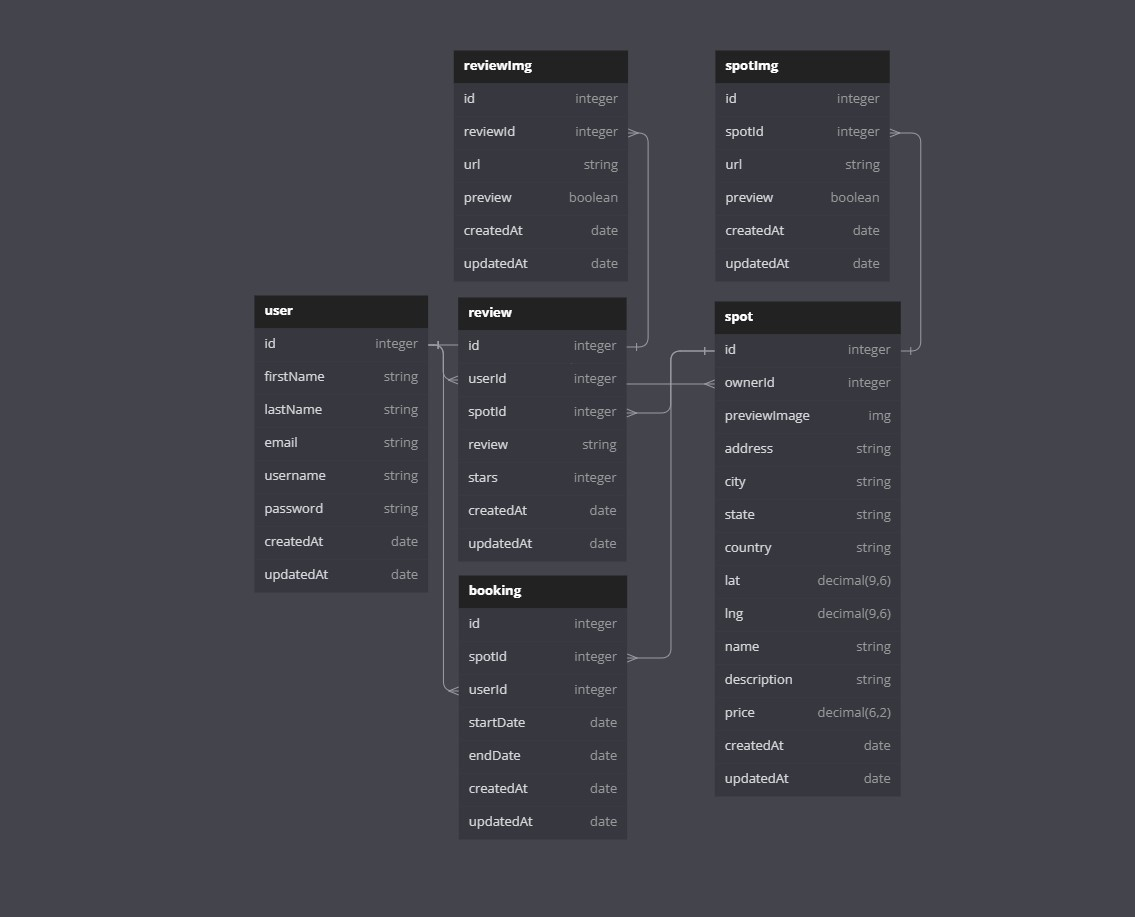
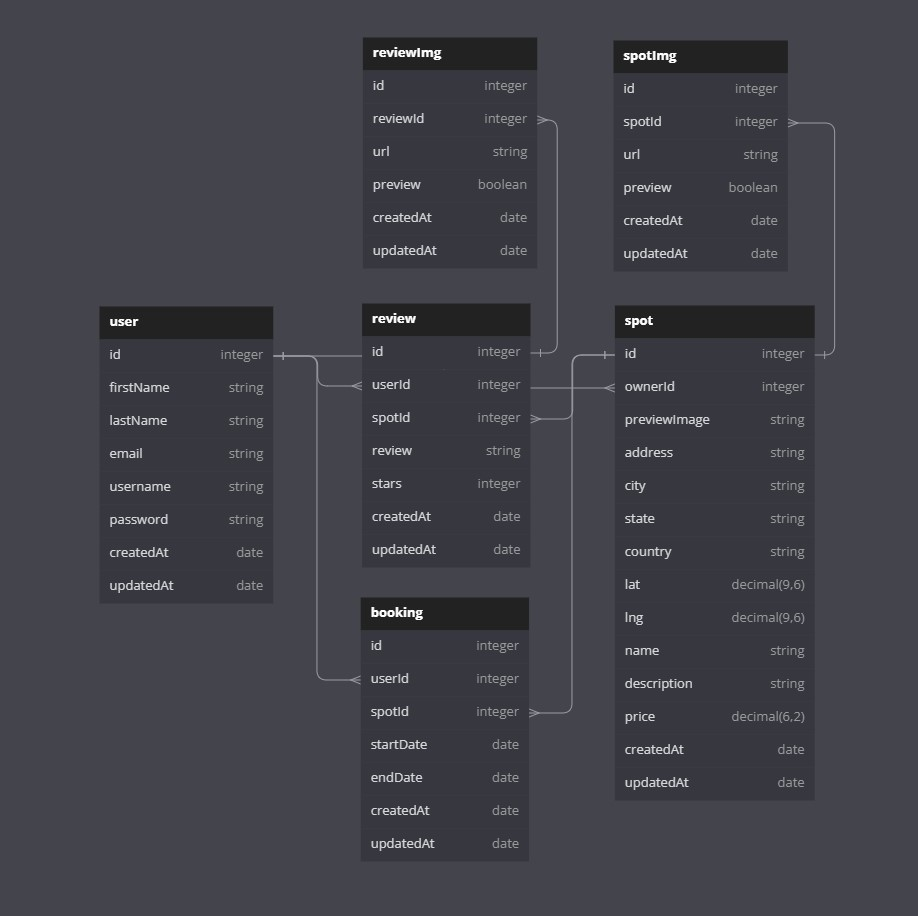
Updates to Schema-Diagram

diff --git a/zSchema/Schema-Info.md b/zSchema/Schema-Info.md
@@ -16,7 +16,7 @@ Table user {
 Table spot {
   id integer
   ownerId integer [ref: > user.id]
-  previewImage img
+  previewImage string
   address string
   city string
   state string
@@ -32,8 +32,8 @@ Table spot {
 
 Table booking {
   id integer
-  spotId integer [ref: > spot.id]
   userId integer [ref: > user.id]
+  spotId integer [ref: > spot.id]
   startDate date
   endDate date
   createdAt date
